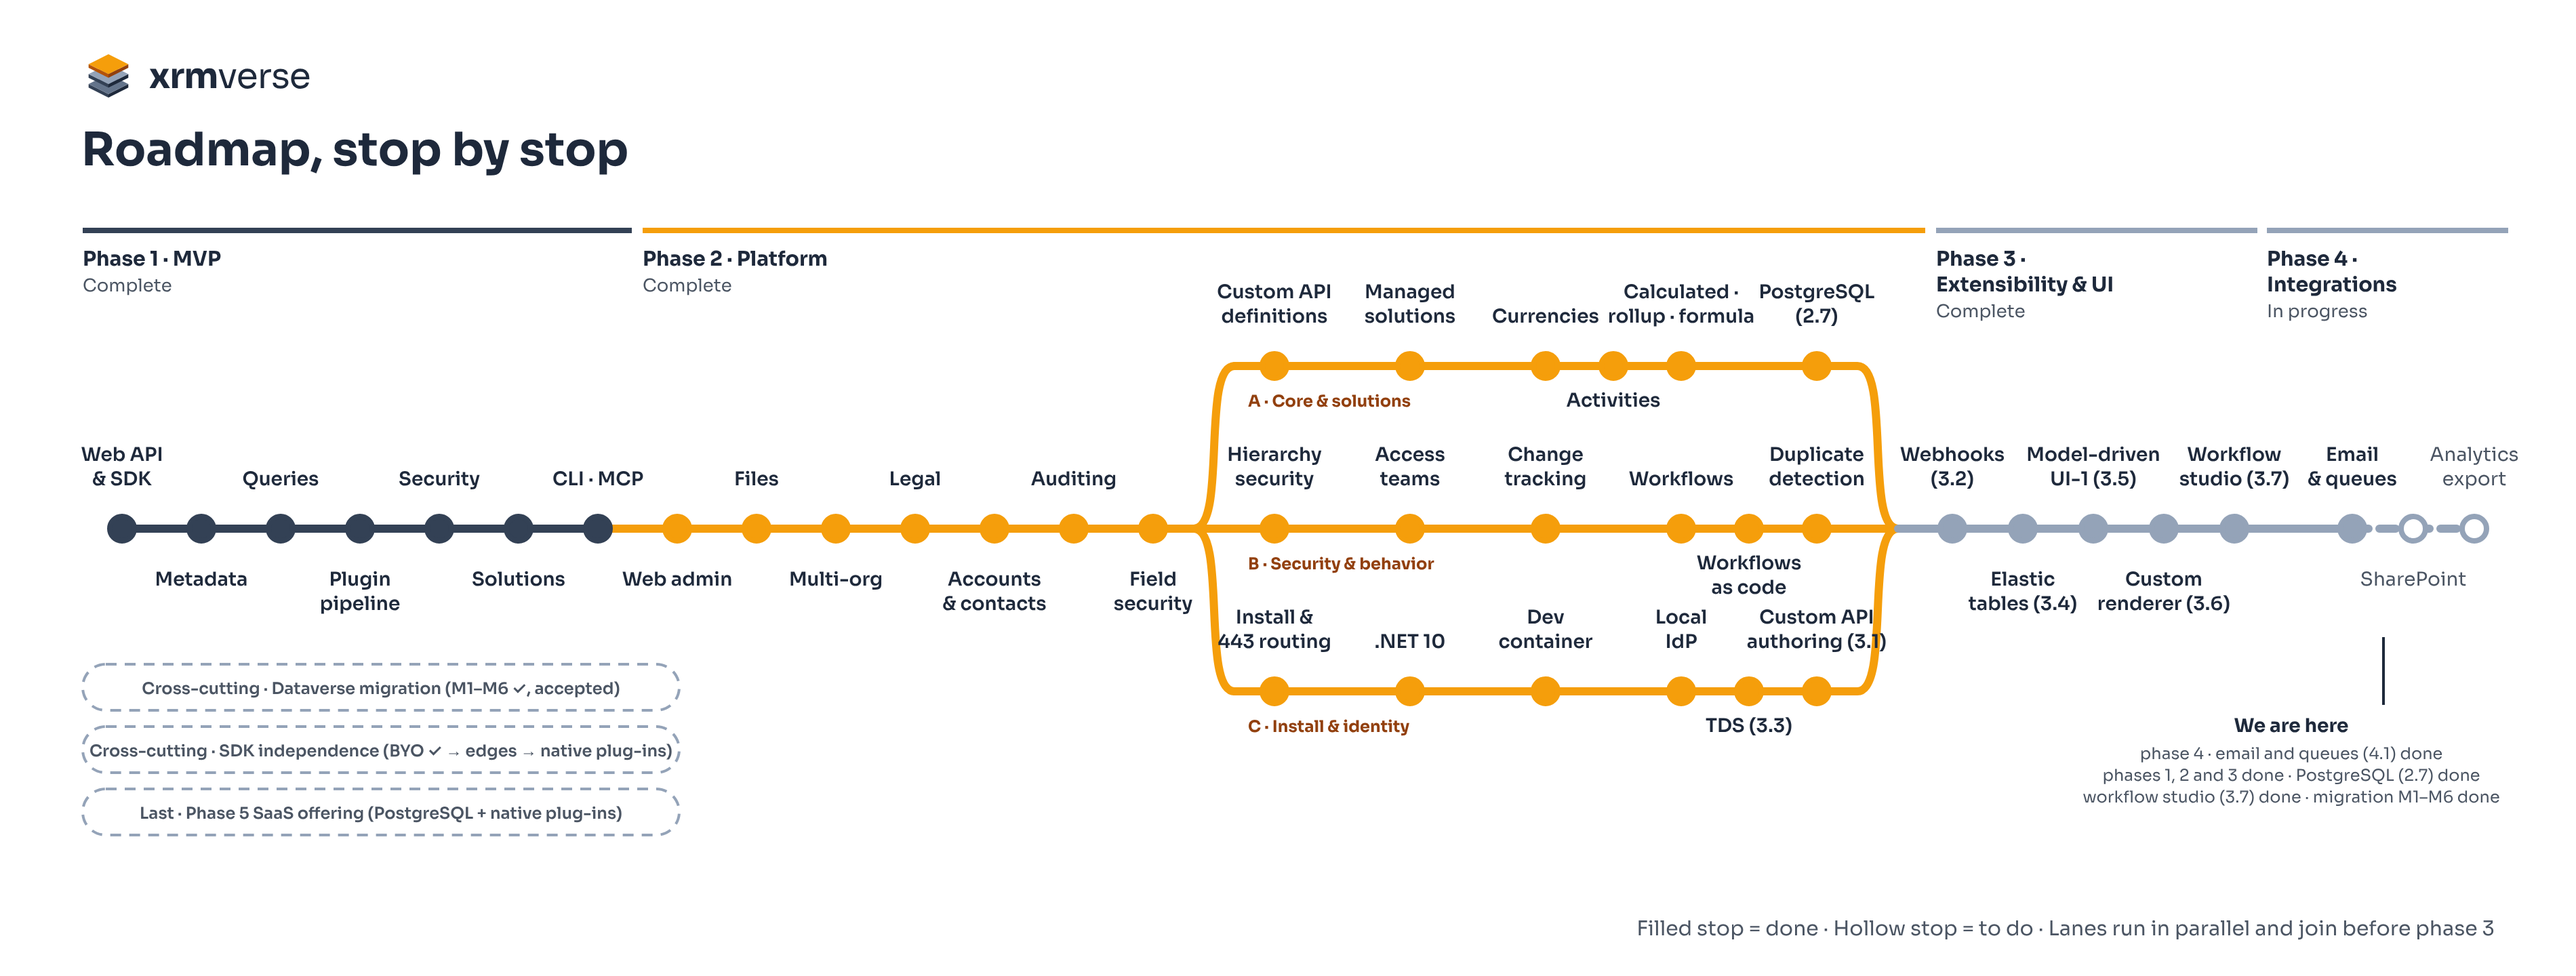
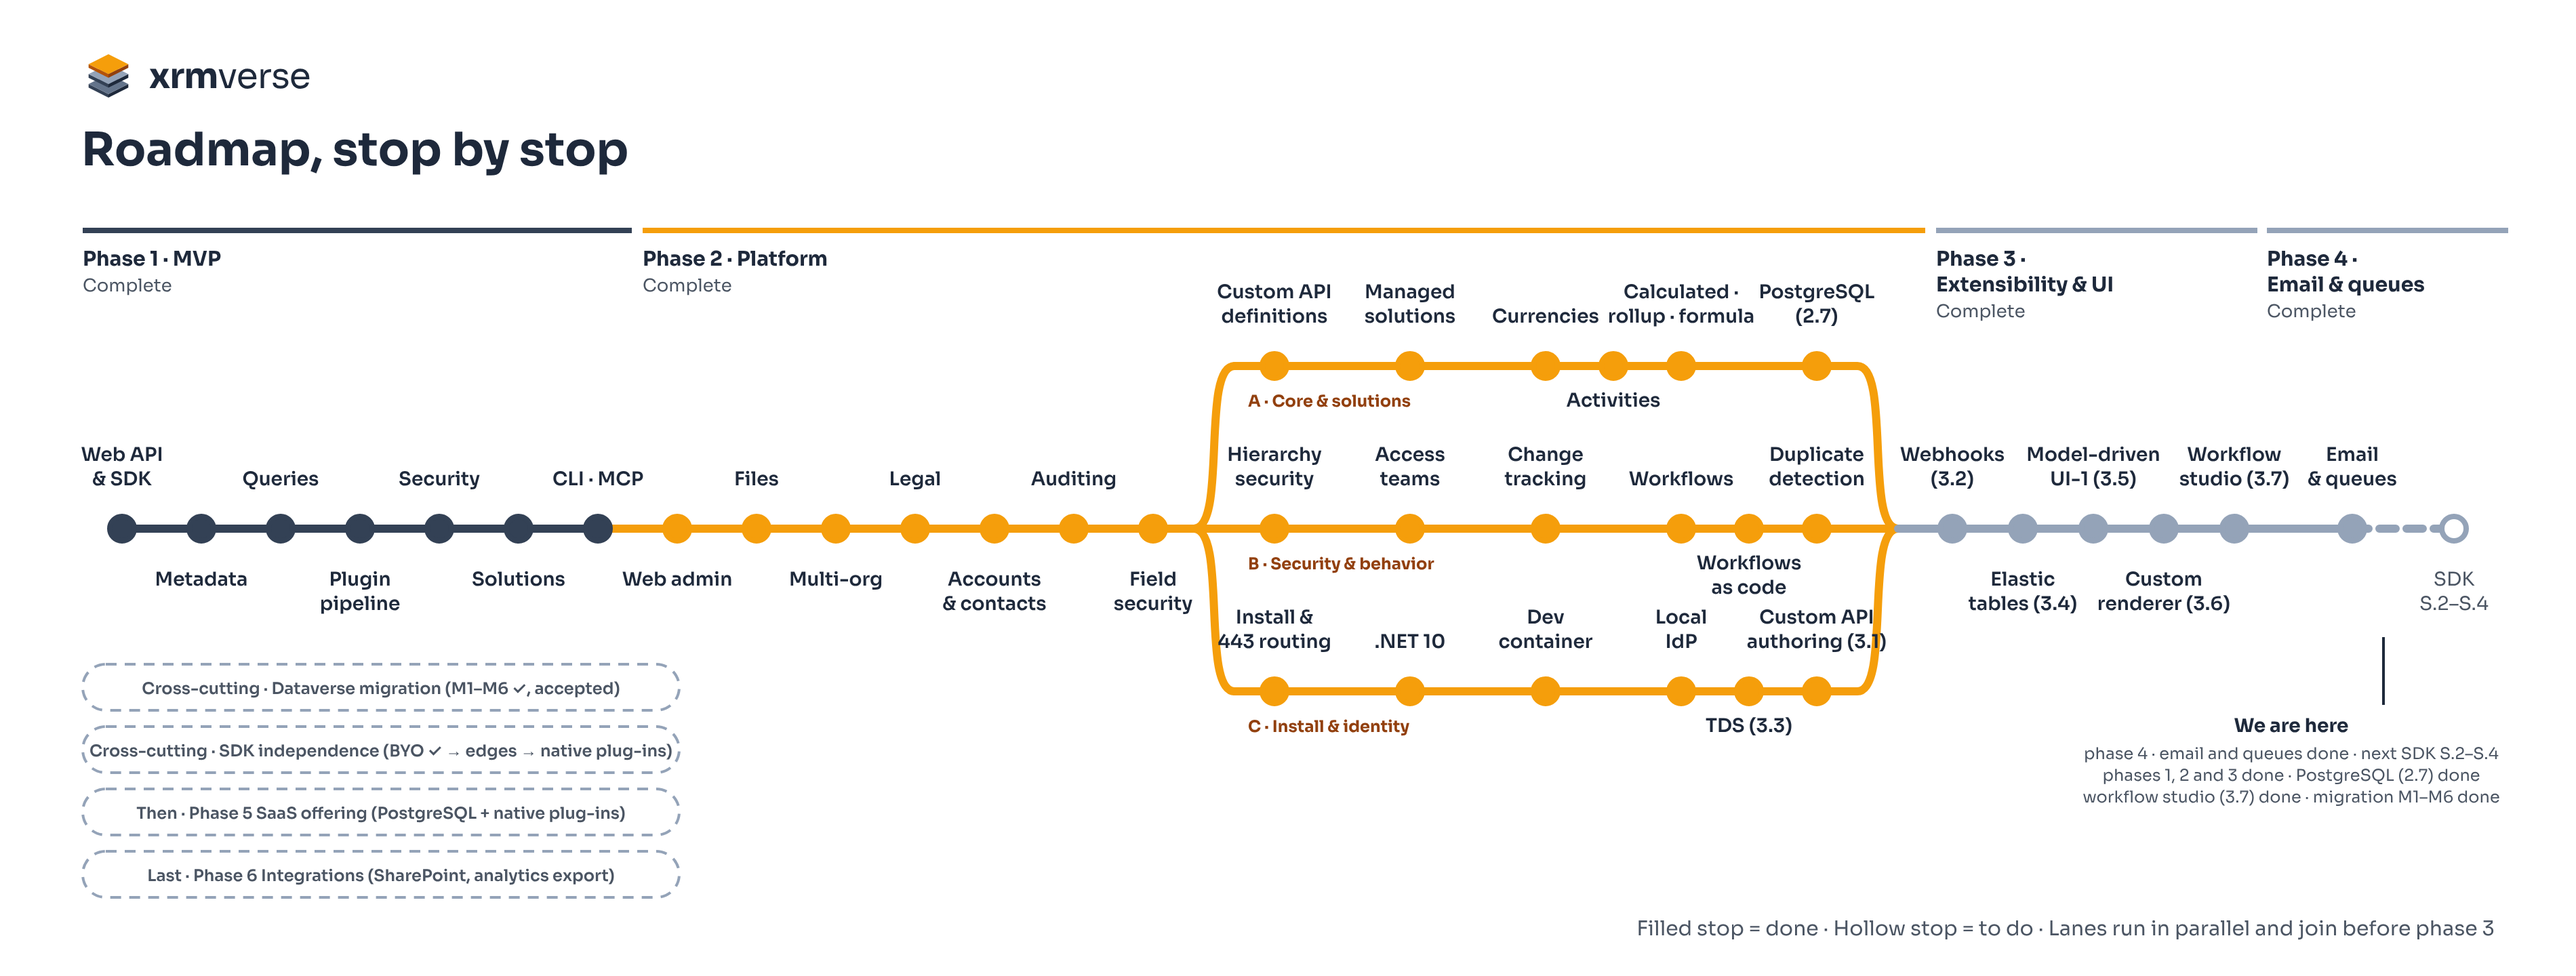
docs(roadmap): move SharePoint and analytics export to a new phase 6
Source-Commit: 783dfa9bf0611d5fc2a554de6218c91278be494f

diff --git a/README.md b/README.md
@@ -6,7 +6,7 @@
 
 ![xrmverse - Dataverse-compatible server, on your meta.](https://github.com/pwbit/xrmverse/blob/main/docs/images/xrmverse-logo-dark-bg-1200.png)
 
-**Status as of November 22, 2026**: phases 1 (MVP), 2 (platform) and 3 (extensibility and UI) are complete, the last item of phase 2 being PostgreSQL organizations with every feature of SQL Server ones and the last item of phase 3 the workflow studio (3.7); phase 4 (integrations) is in progress; the migration from Dataverse is done (M1–M6) and accepted on a real Dataverse environment; releases are public (latest `v0.1.10`) under the Apache License 2.0.
+**Status as of November 23, 2026**: phases 1 (MVP), 2 (platform), 3 (extensibility and UI) and 4 (email and queues) are complete, the last item of phase 2 being PostgreSQL organizations with every feature of SQL Server ones and the last item of phase 3 the workflow studio (3.7); SDK independence (S.2 to S.4) is next; the migration from Dataverse is done (M1–M6) and accepted on a real Dataverse environment; releases are public (latest `v0.1.10`) under the Apache License 2.0.
 
 This page is the entry point: what xrmverse is, why it exists and where it is going. Everything else is in the [documentation](#documentation), one page per topic.
 
@@ -66,8 +66,9 @@ For a feature-by-feature view, see [xrmverse compared with Dataverse](docs/datav
 | **2 — Platform** | Web admin, file and image columns, several organizations on one SQL Server, auditing, field security (2.4), custom API definitions (import + execution; authoring is item 3.1, done in lane C), hierarchy security (2.5), access teams (2.16), change tracking (2.13), duplicate detection (2.15), managed solutions (2.6), currencies (2.10), local IdP (2.8), dev container (2.9), PostgreSQL; then activities and notes, calculated columns (2.12a ✅), rollup columns (2.12b ✅), formula columns (2.12c ✅), classic workflows | ✅ complete (in four lanes: **A** core and solutions, ending with PostgreSQL organizations, core 2.7a and the rest 2.7b; **B** security and behavior; **C** install and identity; **D** quality and backlog) |
 | **Legal backlog** (plan 10) | Third-party notices and license check, SBOMs, vulnerability gate, `SECURITY.md`, SQL Server edition (Express by default), trademark notice, warning on Microsoft first-party solutions, About page | ✅ complete |
 | **3 — Extensibility and UI** | Custom APIs (3.1 authoring ✅, pulled forward into lane C), webhooks (3.2 ✅, pulled forward into lane C; contract 8 only), TDS endpoint (3.3 ✅, pulled forward into phase 2, local IdP organizations only), elastic tables (3.4 ✅, pulled forward into lane D), model-driven UI-1 (3.5 ✅ complete, UI-1a to UI-1g: app picker, shell, site map, read-only views, forms and standard commands, web resources and the Client API, field and dataset PCF controls, custom commands, then dashboards and charts and the timeline for activities, notes and posts, pulled forward into lane C), visual workflow editor (3.7 ✅: the [workflow studio](docs/workflow-studio.md), a separate app with its own access, flow canvas plus a code view on the 2.21 YAML); Model-driven apps last (porting, then custom rendering) | ✅ complete (TDS endpoint, custom API authoring, elastic tables, webhooks, model-driven UI-1 (UI-1a to UI-1g), model-driven UI-2 (UI-2a to UI-2g), workflow studio (3.7)) |
-| **4 — Integrations** | Email and queue sync, SharePoint, analytics export | 🔨 in progress (email and queues done) |
-| **5 — SaaS offering** (last) | A hosted, resellable offering on PostgreSQL organizations with native plug-ins only (no Microsoft DLL): tenant isolation, provisioning and quotas, per-organization backup, metering and billing, service terms; after phase 4, S.2 and S.4 | ⏳ |
+| **4 — Email and queues** | Queues, outgoing and incoming email (4.1) | ✅ complete |
+| **5 — SaaS offering** | A hosted, resellable offering on PostgreSQL organizations with native plug-ins only (no Microsoft DLL): tenant isolation, provisioning and quotas, per-organization backup, metering and billing, service terms; after phase 4, S.2 and S.4 | ⏳ |
+| **6 — Integrations** (last) | SharePoint document integration (6.1) and analytics export (6.2), formerly items 4.2 and 4.3; after phase 5 | ⏳ |
 | **Migration from Dataverse** (cross-cutting) | One-off move of an application and its data with the same GUIDs: `xrmd migrate export`, encrypted package, server-side import with verification, `xrmd migrate run`, `activate` and MCP tools, accepted on a real Dataverse trial (M1–M6); see [Migrating from Dataverse](docs/migration.md) | ✅ M1–M6 (accepted on a Dataverse trial) |
 | **SDK independence** (cross-cutting) | S.1 bring your own Microsoft SDK (`xrmd sdk install`, no Microsoft DLL in any artifact, see [Installing the Microsoft SDK](docs/microsoft-sdk.md)); S.2 then the SDK only at the edges, so that the Web API, web admin, MCP and CLI run with no Microsoft DLL; extensions without the SDK through webhooks and service endpoints; S.4 a native plug-in SDK of our own (`Xrmd.Plugins`, Apache 2.0) for in-process plug-ins with no Microsoft DLL, after S.2 | 🔄 S.1 ✅, webhooks ✅ |
 

diff --git a/docs/known-issues.md b/docs/known-issues.md
@@ -146,7 +146,7 @@ Features that are missing or partial today. Each one fails explicitly where it i
 | Link from a system job to its record | `asyncoperation.regardingobjectid` is a plain id column, not a lookup: filter on it by value; it has no navigation property and no name. | Not scheduled |
 | Queue privilege `prvPickFromQueue` | The message privilege is not modelled. Pick, Release, Route, Remove and the Update or Delete of a queue item need the queue item privilege, the item's queue readable (public, owned, a member, or shared) and Read on its record instead; no Write on the queue itself. See [Email and queues](email-and-queues.md#security-of-the-messages). | Stays until verified against Dataverse |
 | No optimistic concurrency on queue items | Queue items have no ETag or `If-Match` check; the last writer wins on a plain Update. See [Email and queues](email-and-queues.md#known-limits). | Not scheduled |
-| SharePoint document integration | Not available. | Planned (item 4.2) |
+| SharePoint document integration | Not available. | Planned (item 6.1, phase 6) |
 | Microsoft SDK in every component | The Web API, web admin, MCP and CLI still need the Microsoft SDK that you install yourself. See [Installing the Microsoft SDK](microsoft-sdk.md). | Planned (item S.2) |
 | In-process plug-ins without the Microsoft SDK | Plug-ins that run inside the transaction must be built against the Microsoft SDK; without it, only webhooks and workflows are available. | Planned (item S.4) |
 
